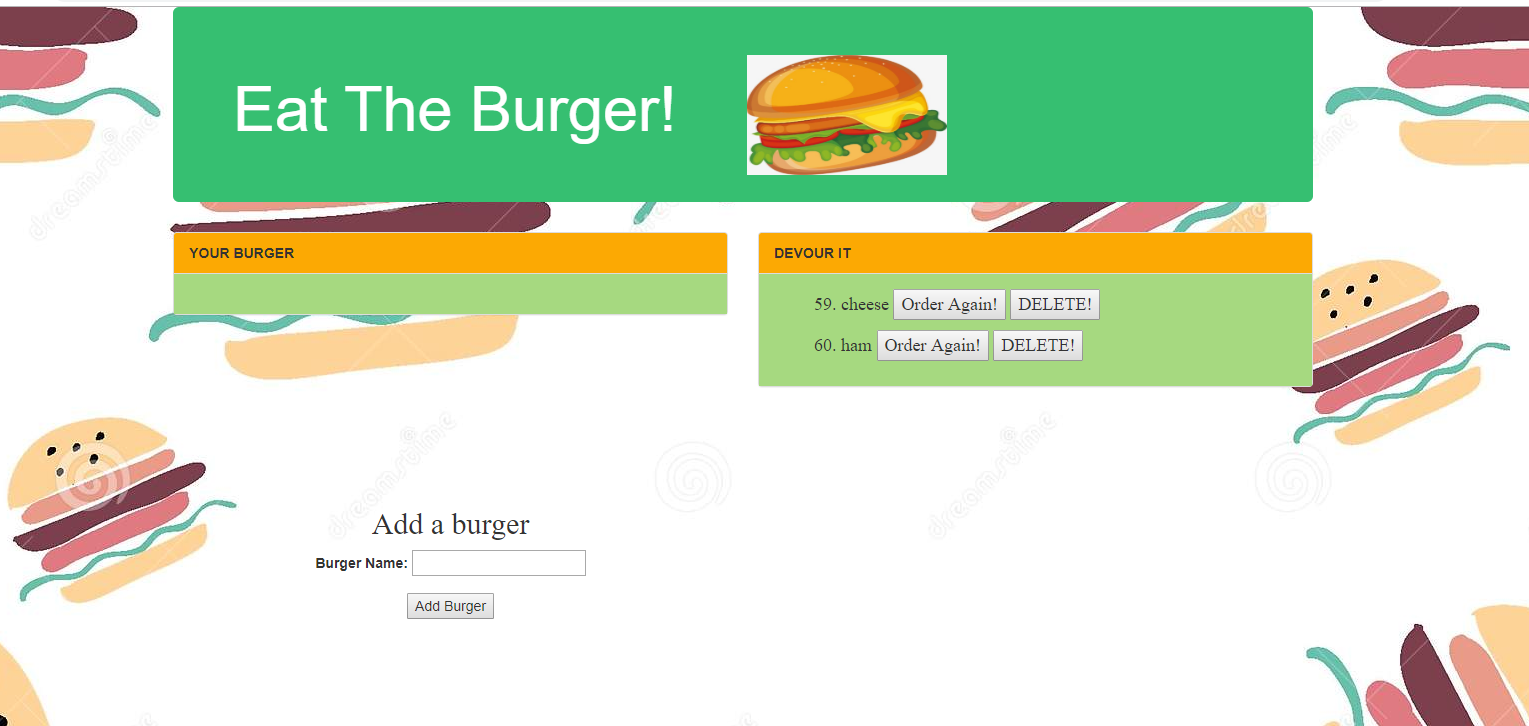
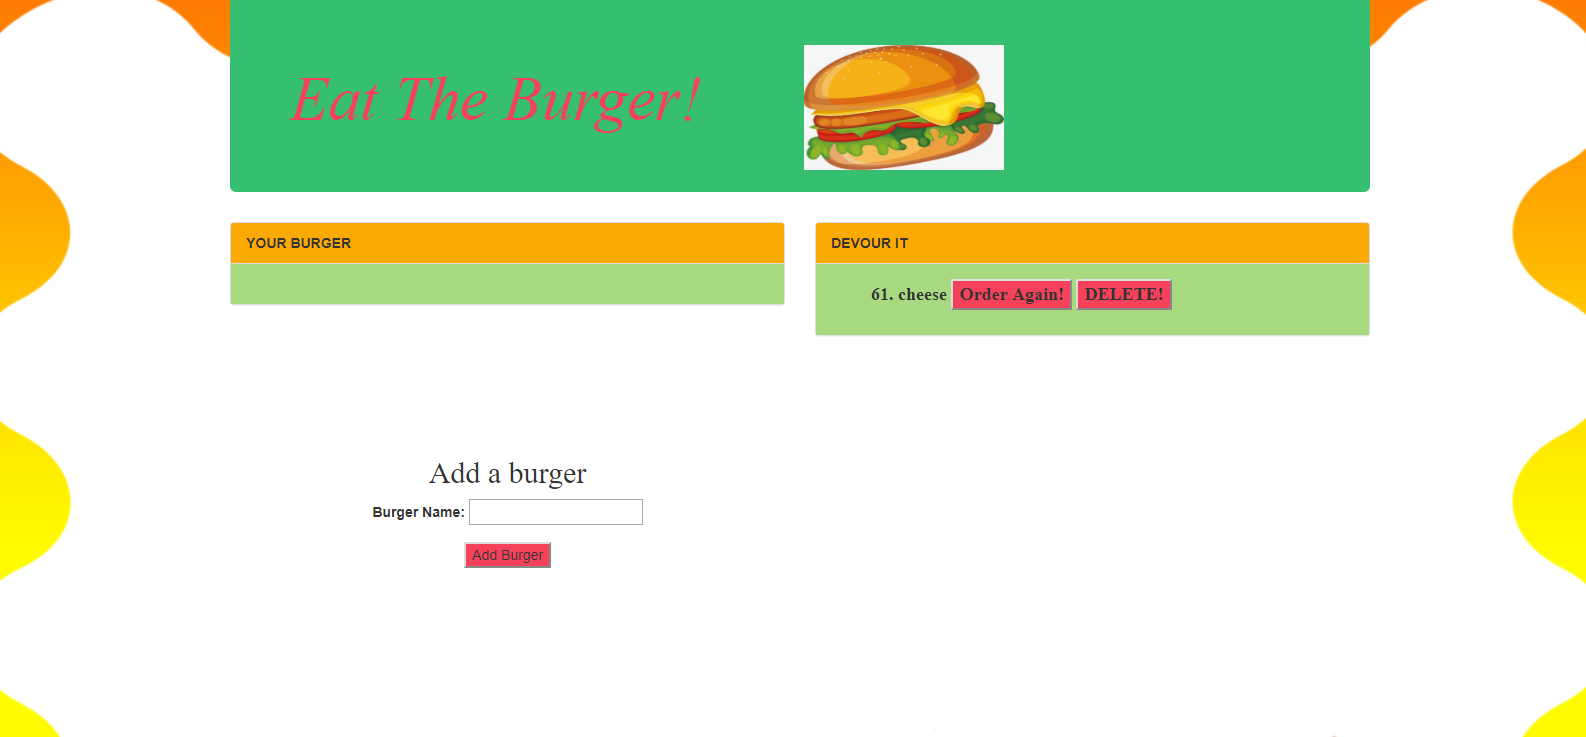
Updated Filea

diff --git a/public/assets/css/style.css b/public/assets/css/style.css
@@ -6,9 +6,10 @@ body {
 
 .jumbotron {
     background-color: #36bf71;
-    color: white;
-    font-family: Arial, Helvetica, sans-serif;
-}
+    color: #f5425a;
+    font-family: "Times New Roman", Times, serif;
+    font-style: italic;
+}  
 
 h2 {
     font-size: 30px;
@@ -23,5 +24,11 @@ p {
 img {
     float: right;
     margin-right: 30%;
+    margin-top: 0px;
+}
+
+button {
+    background-color: #f5425a;
+    font-style: bold;
 }
 
